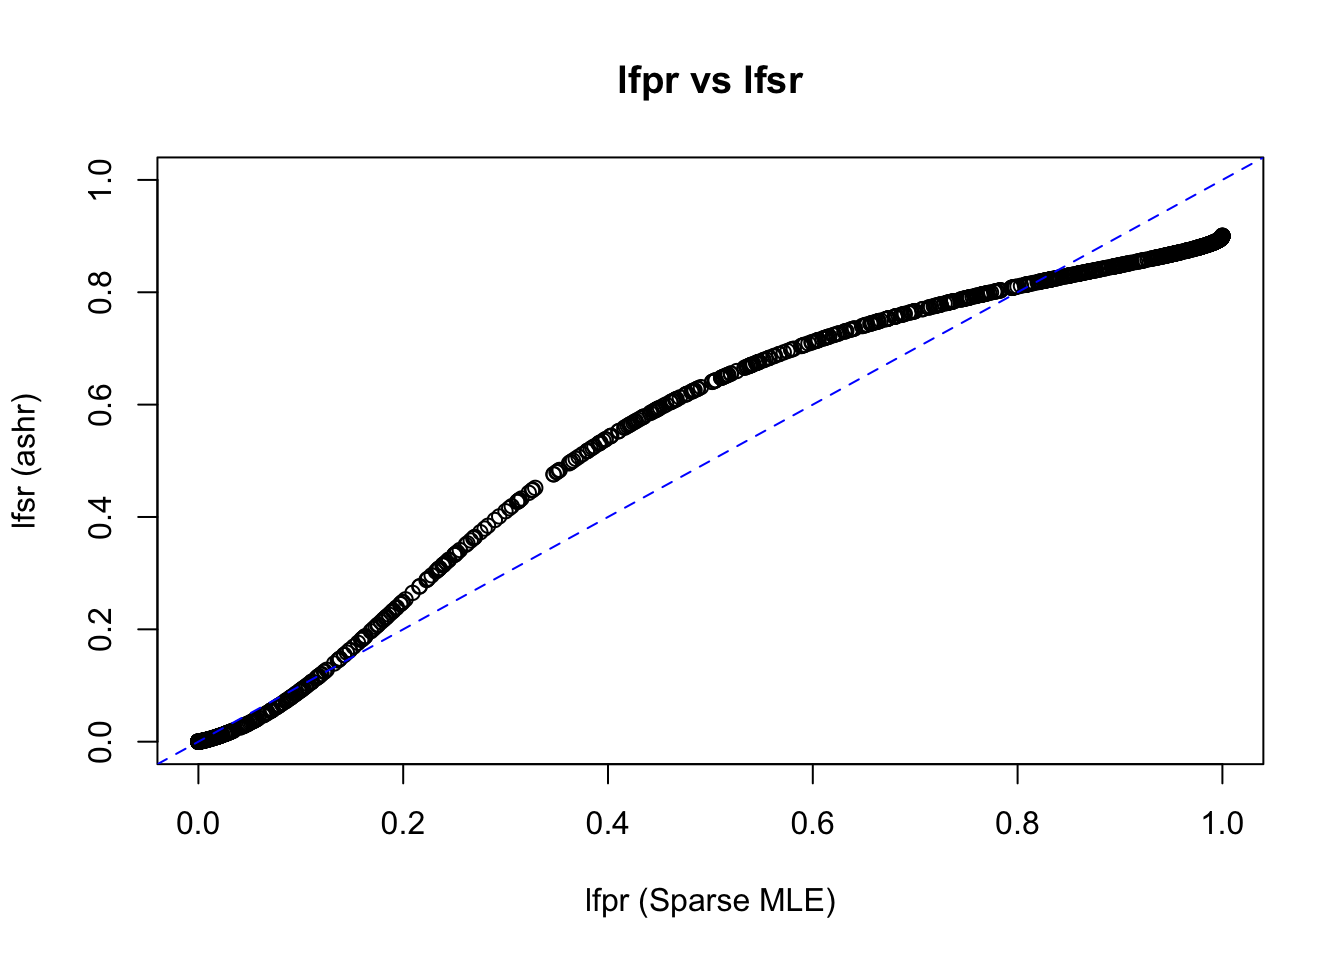
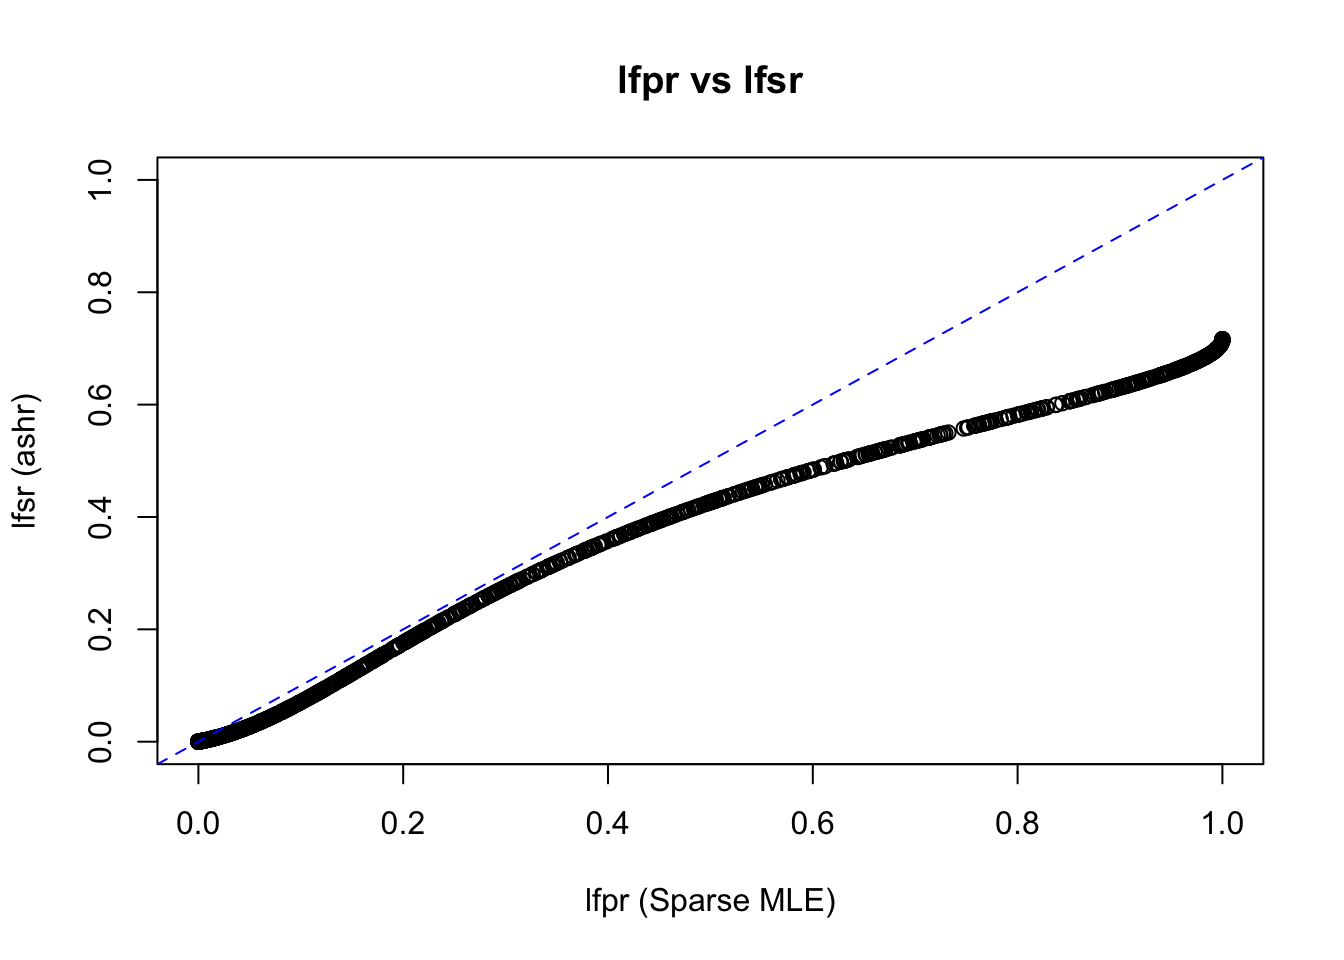
Build site.

diff --git a/docs/sparsemle.html b/docs/sparsemle.html
@@ -361,13 +361,15 @@ div.section {
 </li>
 <li>
 <details>
-<p><summary> <strong style="color:blue;">✔</strong> <strong>Repository version:</strong> <a href="https://github.com/LSun/OracleBayesMT/tree/9c57a59da417ce684937bcab0a0d6324f57ea560" target="_blank">9c57a59</a> </summary></p>
+<p><summary> <strong style="color:blue;">✔</strong> <strong>Repository version:</strong> <a href="https://github.com/LSun/OracleBayesMT/tree/cfba731feba65169abca5495659fdbbf03c265fb" target="_blank">cfba731</a> </summary></p>
 Great! You are using Git for version control. Tracking code development and connecting the code version to the results is critical for reproducibility. The version displayed above was the version of the Git repository at the time these results were generated. <br><br> Note that you need to be careful to ensure that all relevant files for the analysis have been committed to Git prior to generating the results (you can use <code>wflow_publish</code> or <code>wflow_git_commit</code>). workflowr only checks the R Markdown file, but you know if there are other scripts or data files that it depends on. Below is the status of the Git repository when the results were generated:
 <pre><code>
 Ignored files:
     Ignored:    .DS_Store
     Ignored:    .Rhistory
     Ignored:    .Rproj.user/
+    Ignored:    analysis/OB_FDR_cache/
+    Ignored:    analysis/OB_MTLR_cache/
     Ignored:    figures/
 
 </code></pre>
@@ -399,6 +401,40 @@ Message
 </tr>
 </thead>
 <tbody>
+<tr>
+<td style="text-align:left;">
+rmd
+</td>
+<td style="text-align:left;">
+<a href="https://github.com/LSun/OracleBayesMT/blob/cfba731feba65169abca5495659fdbbf03c265fb/analysis/sparsemle.rmd" target="_blank">cfba731</a>
+</td>
+<td style="text-align:left;">
+LSun
+</td>
+<td style="text-align:left;">
+2019-01-18
+</td>
+<td style="text-align:left;">
+wflow_publish(“analysis/sparsemle.rmd”)
+</td>
+</tr>
+<tr>
+<td style="text-align:left;">
+html
+</td>
+<td style="text-align:left;">
+<a href="https://cdn.rawgit.com/LSun/OracleBayesMT/440a22e15f1601b7d775744dde9cc789b349afd2/docs/sparsemle.html" target="_blank">440a22e</a>
+</td>
+<td style="text-align:left;">
+Lei Sun
+</td>
+<td style="text-align:left;">
+2019-01-18
+</td>
+<td style="text-align:left;">
+Build site.
+</td>
+</tr>
 <tr>
 <td style="text-align:left;">
 rmd
@@ -1884,31 +1920,248 @@ Lei Sun
 <div id="differing-lfdr-and-lfsr" class="section level2">
 <h2>Differing <code>lfdr</code> and <code>lfsr</code></h2>
 <pre class="r"><code>set.seed(777)
-theta &lt;- sample(c(rep(0, 600), rnorm(200, -3, 1), rnorm(200, 3, 1)))
+theta &lt;- rnorm(1000, 0, 2)
 z &lt;- theta + rnorm(1000)
 fit.sparsemle &lt;- sparsemle(z)
 fit.ashr &lt;- ashr::ash(z, 1)
 lfpr &lt;- (1 - fit.sparsemle$rho) / (1 - fit.sparsemle$rho + fit.sparsemle$rho * zeta_ip(z))
 hist(theta, xlab = expression(theta))</code></pre>
 <p><img src="figure/sparsemle.rmd/unnamed-chunk-7-1.png" width="672" style="display: block; margin: auto;" /></p>
+<details>
+<summary><em>Expand here to see past versions of unnamed-chunk-7-1.png:</em></summary>
+<table style = "border-collapse:separate; border-spacing:5px;">
+<thead>
+<tr>
+<th style="text-align:left;">
+Version
+</th>
+<th style="text-align:left;">
+Author
+</th>
+<th style="text-align:left;">
+Date
+</th>
+</tr>
+</thead>
+<tbody>
+<tr>
+<td style="text-align:left;">
+<a href="https://github.com/LSun/OracleBayesMT/blob/440a22e15f1601b7d775744dde9cc789b349afd2/docs/figure/sparsemle.rmd/unnamed-chunk-7-1.png" target="_blank">440a22e</a>
+</td>
+<td style="text-align:left;">
+Lei Sun
+</td>
+<td style="text-align:left;">
+2019-01-18
+</td>
+</tr>
+</tbody>
+</table>
+</details>
 <pre class="r"><code>plot(lfpr, inactivity_rate(fit.sparsemle), xlab = &quot;lfpr (Sparse MLE)&quot;, ylab = &quot;inactivity rate (Sparse MLE)&quot;, main = &quot;lfpr vs inactivity rate&quot;)
 abline(0, 1, col = &quot;blue&quot;, lty = 2)</code></pre>
 <p><img src="figure/sparsemle.rmd/unnamed-chunk-7-2.png" width="672" style="display: block; margin: auto;" /></p>
+<details>
+<summary><em>Expand here to see past versions of unnamed-chunk-7-2.png:</em></summary>
+<table style = "border-collapse:separate; border-spacing:5px;">
+<thead>
+<tr>
+<th style="text-align:left;">
+Version
+</th>
+<th style="text-align:left;">
+Author
+</th>
+<th style="text-align:left;">
+Date
+</th>
+</tr>
+</thead>
+<tbody>
+<tr>
+<td style="text-align:left;">
+<a href="https://github.com/LSun/OracleBayesMT/blob/440a22e15f1601b7d775744dde9cc789b349afd2/docs/figure/sparsemle.rmd/unnamed-chunk-7-2.png" target="_blank">440a22e</a>
+</td>
+<td style="text-align:left;">
+Lei Sun
+</td>
+<td style="text-align:left;">
+2019-01-18
+</td>
+</tr>
+</tbody>
+</table>
+</details>
 <pre class="r"><code>plot(ashr::get_lfdr(fit.ashr), ashr::get_lfsr(fit.ashr), xlab = &quot;lfdr (ashr)&quot;, ylab = &quot;lfsr (ashr)&quot;, main = &quot;lfdr vs lfsr&quot;)
 abline(0, 1, col = &quot;blue&quot;, lty = 2)</code></pre>
 <p><img src="figure/sparsemle.rmd/unnamed-chunk-7-3.png" width="672" style="display: block; margin: auto;" /></p>
+<details>
+<summary><em>Expand here to see past versions of unnamed-chunk-7-3.png:</em></summary>
+<table style = "border-collapse:separate; border-spacing:5px;">
+<thead>
+<tr>
+<th style="text-align:left;">
+Version
+</th>
+<th style="text-align:left;">
+Author
+</th>
+<th style="text-align:left;">
+Date
+</th>
+</tr>
+</thead>
+<tbody>
+<tr>
+<td style="text-align:left;">
+<a href="https://github.com/LSun/OracleBayesMT/blob/440a22e15f1601b7d775744dde9cc789b349afd2/docs/figure/sparsemle.rmd/unnamed-chunk-7-3.png" target="_blank">440a22e</a>
+</td>
+<td style="text-align:left;">
+Lei Sun
+</td>
+<td style="text-align:left;">
+2019-01-18
+</td>
+</tr>
+</tbody>
+</table>
+</details>
 <pre class="r"><code>plot(lfpr, ashr::get_lfdr(fit.ashr), xlab = &quot;lfpr (Sparse MLE)&quot;, ylab = &quot;lfdr (ashr)&quot;, main = &quot;lfpr vs lfdr&quot;, xlim = c(0, 1), ylim = c(0, 1))
 abline(0, 1, col = &quot;blue&quot;, lty = 2)</code></pre>
 <p><img src="figure/sparsemle.rmd/unnamed-chunk-7-4.png" width="672" style="display: block; margin: auto;" /></p>
+<details>
+<summary><em>Expand here to see past versions of unnamed-chunk-7-4.png:</em></summary>
+<table style = "border-collapse:separate; border-spacing:5px;">
+<thead>
+<tr>
+<th style="text-align:left;">
+Version
+</th>
+<th style="text-align:left;">
+Author
+</th>
+<th style="text-align:left;">
+Date
+</th>
+</tr>
+</thead>
+<tbody>
+<tr>
+<td style="text-align:left;">
+<a href="https://github.com/LSun/OracleBayesMT/blob/440a22e15f1601b7d775744dde9cc789b349afd2/docs/figure/sparsemle.rmd/unnamed-chunk-7-4.png" target="_blank">440a22e</a>
+</td>
+<td style="text-align:left;">
+Lei Sun
+</td>
+<td style="text-align:left;">
+2019-01-18
+</td>
+</tr>
+</tbody>
+</table>
+</details>
 <pre class="r"><code>plot(lfpr, ashr::get_lfsr(fit.ashr), xlab = &quot;lfpr (Sparse MLE)&quot;, ylab = &quot;lfsr (ashr)&quot;, main = &quot;lfpr vs lfsr&quot;, xlim = c(0, 1), ylim = c(0, 1))
 abline(0, 1, col = &quot;blue&quot;, lty = 2)</code></pre>
 <p><img src="figure/sparsemle.rmd/unnamed-chunk-7-5.png" width="672" style="display: block; margin: auto;" /></p>
+<details>
+<summary><em>Expand here to see past versions of unnamed-chunk-7-5.png:</em></summary>
+<table style = "border-collapse:separate; border-spacing:5px;">
+<thead>
+<tr>
+<th style="text-align:left;">
+Version
+</th>
+<th style="text-align:left;">
+Author
+</th>
+<th style="text-align:left;">
+Date
+</th>
+</tr>
+</thead>
+<tbody>
+<tr>
+<td style="text-align:left;">
+<a href="https://github.com/LSun/OracleBayesMT/blob/440a22e15f1601b7d775744dde9cc789b349afd2/docs/figure/sparsemle.rmd/unnamed-chunk-7-5.png" target="_blank">440a22e</a>
+</td>
+<td style="text-align:left;">
+Lei Sun
+</td>
+<td style="text-align:left;">
+2019-01-18
+</td>
+</tr>
+</tbody>
+</table>
+</details>
 <pre class="r"><code>plot(inactivity_rate(fit.sparsemle), ashr::get_lfdr(fit.ashr), xlab = &quot;inactivity rate (Sparse MLE)&quot;, ylab = &quot;lfdr (ashr)&quot;, main = &quot;inactivity rate vs lfdr&quot;)
 abline(0, 1, col = &quot;blue&quot;, lty = 2)</code></pre>
 <p><img src="figure/sparsemle.rmd/unnamed-chunk-7-6.png" width="672" style="display: block; margin: auto;" /></p>
+<details>
+<summary><em>Expand here to see past versions of unnamed-chunk-7-6.png:</em></summary>
+<table style = "border-collapse:separate; border-spacing:5px;">
+<thead>
+<tr>
+<th style="text-align:left;">
+Version
+</th>
+<th style="text-align:left;">
+Author
+</th>
+<th style="text-align:left;">
+Date
+</th>
+</tr>
+</thead>
+<tbody>
+<tr>
+<td style="text-align:left;">
+<a href="https://github.com/LSun/OracleBayesMT/blob/440a22e15f1601b7d775744dde9cc789b349afd2/docs/figure/sparsemle.rmd/unnamed-chunk-7-6.png" target="_blank">440a22e</a>
+</td>
+<td style="text-align:left;">
+Lei Sun
+</td>
+<td style="text-align:left;">
+2019-01-18
+</td>
+</tr>
+</tbody>
+</table>
+</details>
 <pre class="r"><code>plot(inactivity_rate(fit.sparsemle), ashr::get_lfsr(fit.ashr), xlab = &quot;inactivity rate (Sparse MLE)&quot;, ylab = &quot;lfsr (ashr)&quot;, main = &quot;inactivity rate vs lfsr&quot;)
 abline(0, 1, col = &quot;blue&quot;, lty = 2)</code></pre>
 <p><img src="figure/sparsemle.rmd/unnamed-chunk-7-7.png" width="672" style="display: block; margin: auto;" /></p>
+<details>
+<summary><em>Expand here to see past versions of unnamed-chunk-7-7.png:</em></summary>
+<table style = "border-collapse:separate; border-spacing:5px;">
+<thead>
+<tr>
+<th style="text-align:left;">
+Version
+</th>
+<th style="text-align:left;">
+Author
+</th>
+<th style="text-align:left;">
+Date
+</th>
+</tr>
+</thead>
+<tbody>
+<tr>
+<td style="text-align:left;">
+<a href="https://github.com/LSun/OracleBayesMT/blob/440a22e15f1601b7d775744dde9cc789b349afd2/docs/figure/sparsemle.rmd/unnamed-chunk-7-7.png" target="_blank">440a22e</a>
+</td>
+<td style="text-align:left;">
+Lei Sun
+</td>
+<td style="text-align:left;">
+2019-01-18
+</td>
+</tr>
+</tbody>
+</table>
+</details>
 </div>
 <div id="remarks" class="section level2">
 <h2>Remarks</h2>
@@ -1919,7 +2172,7 @@ abline(0, 1, col = &quot;blue&quot;, lty = 2)</code></pre>
 <pre class="r"><code>sessionInfo()</code></pre>
 <pre><code>R version 3.4.3 (2017-11-30)
 Platform: x86_64-apple-darwin15.6.0 (64-bit)
-Running under: macOS High Sierra 10.13.6
+Running under: macOS  10.14.2
 
 Matrix products: default
 BLAS: /Library/Frameworks/R.framework/Versions/3.4/Resources/lib/libRblas.0.dylib
@@ -1932,21 +2185,21 @@ attached base packages:
 [1] stats     graphics  grDevices utils     datasets  methods   base     
 
 other attached packages:
-[1] ashr_2.2-3
+[1] ashr_2.2-7
 
 loaded via a namespace (and not attached):
- [1] Rcpp_1.0.0        knitr_1.20        whisker_0.3-2    
- [4] magrittr_1.5      workflowr_1.1.1   REBayes_1.2      
+ [1] Rcpp_0.12.16      knitr_1.20        whisker_0.3-2    
+ [4] magrittr_1.5      workflowr_1.1.1   REBayes_1.3      
  [7] MASS_7.3-50       pscl_1.5.2        doParallel_1.0.11
 [10] SQUAREM_2017.10-1 lattice_0.20-35   foreach_1.4.4    
-[13] stringr_1.3.0     tools_3.4.3       parallel_3.4.3   
+[13] stringr_1.3.1     tools_3.4.3       parallel_3.4.3   
 [16] grid_3.4.3        R.oo_1.22.0       git2r_0.23.0     
 [19] htmltools_0.3.6   iterators_1.0.9   assertthat_0.2.0 
-[22] yaml_2.1.18       rprojroot_1.3-2   digest_0.6.15    
-[25] Matrix_1.2-12     codetools_0.2-15  R.utils_2.7.0    
-[28] evaluate_0.10.1   rmarkdown_1.9     stringi_1.1.6    
+[22] yaml_2.1.19       rprojroot_1.3-2   digest_0.6.15    
+[25] Matrix_1.2-14     codetools_0.2-15  R.utils_2.6.0    
+[28] evaluate_0.10.1   rmarkdown_1.9     stringi_1.2.2    
 [31] compiler_3.4.3    Rmosek_8.0.69     backports_1.1.2  
-[34] R.methodsS3_1.7.1 truncnorm_1.0-7  </code></pre>
+[34] R.methodsS3_1.7.1 truncnorm_1.0-8  </code></pre>
 </div>
 
 <!-- Adjust MathJax settings so that all math formulae are shown using
